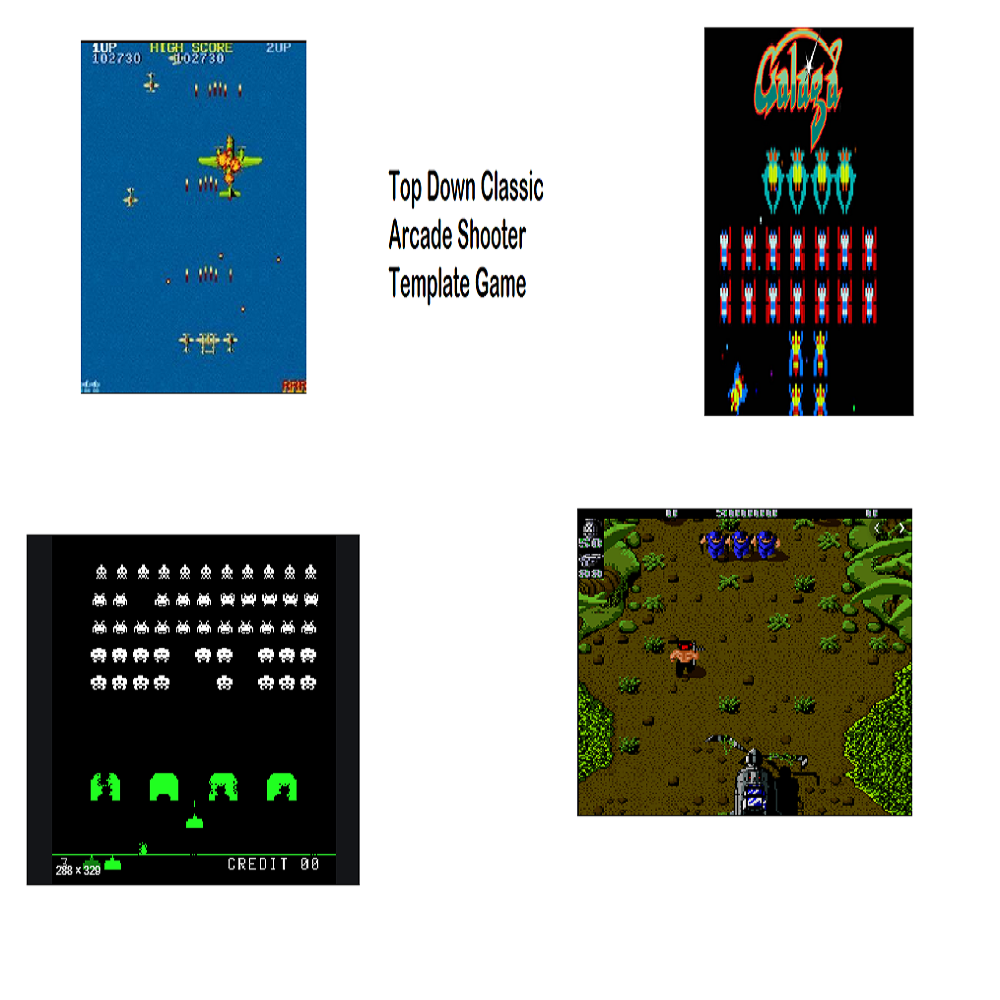
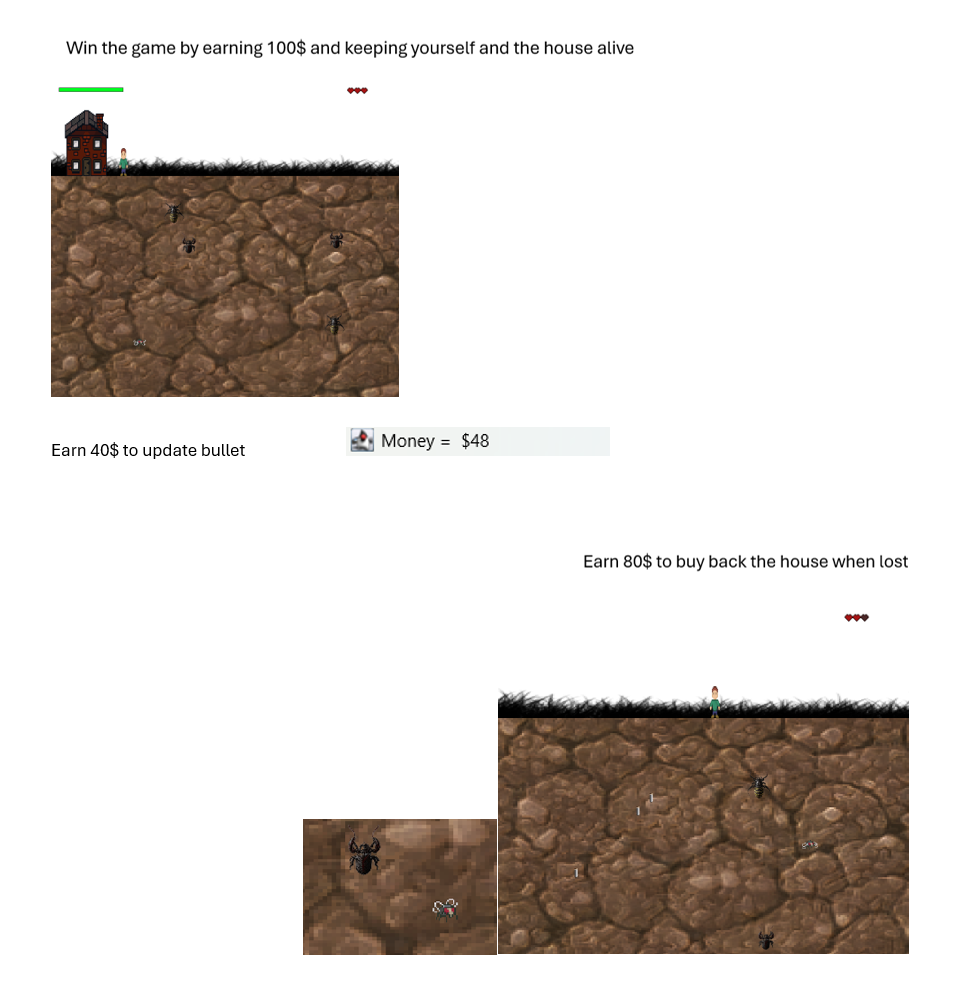
final refinements

diff --git a/src/MainWindow.java b/src/MainWindow.java
@@ -15,6 +15,7 @@ import javax.swing.JButton;
 import javax.swing.JFrame;
 import javax.swing.JLabel;
 import javax.swing.JPanel;
+import javax.swing.Timer;
 
 import util.UnitTests;
 
@@ -51,9 +52,10 @@ public class MainWindow {
 	 private static Viewer canvas = new  Viewer(gameworld);
 	 private static Controller controllerK = Controller.getInstance(); 
 	 private static MouseListener controllerM = Mouse.getInstance();
-	 private static int TargetFPS = 100;
+	 private static int TargetFPS = 80;
 	 private static boolean startGame= false; 
 	 private JLabel BackgroundImageForStartMenu;
+	 private static Timer framerate;
 	  
 	public MainWindow() {
 			frame.setSize(1000, 1000);  // you can customise this later and adapt it to change on size.  
@@ -96,8 +98,10 @@ public class MainWindow {
 	    frame.setVisible(true);   
 	}
 
+
 	public static void main(String[] args) {
 		MainWindow hello = new MainWindow();  //sets up environment 
+
 		while(true){  //not nice but remember we do just want to keep looping till the end.  // this could be replaced by a thread but again we want to keep things simple 
 		//swing has timer class to help us time this but I'm writing my own, you can of course use the timer, but I want to set FPS and display it 
 			
@@ -151,28 +155,18 @@ public class MainWindow {
 		}
 
 		if(gameworld.getShowHousePopUp()){
-			PopUp popup = new PopUp(frame, "Do you want buy back your house?", "[alt + y] Yes", "[alt + n] No");
+			PopUp popup = new PopUp(frame, "Buy back your house.", "[alt + y] Yes");
 			popup.setVisible(true); 
 			
-			if (popup.isAccepted()) {
-				System.out.println("Pressed Yes");
-				canvas.setVisible(true);
-				canvas.addKeyListener(controllerK);
-				canvas.addMouseListener(controllerM);
-				canvas.requestFocusInWindow();
+			System.out.println("Pressed Yes");
+			canvas.setVisible(true);
+			canvas.addKeyListener(controllerK);
+			canvas.addMouseListener(controllerM);
+			canvas.requestFocusInWindow();
 
-				gameworld.setAcceptedHouse(true);
-				gameworld.setShowHousePopUp(false);
-			} else {
-				System.out.println("Pressed No");
-				canvas.setVisible(true);
-				canvas.addKeyListener(controllerK);
-				canvas.addMouseListener(controllerM);
-				canvas.requestFocusInWindow();
-
-				gameworld.setAcceptedHouse(false);
-				gameworld.setShowHousePopUp(false);
-			}
+			gameworld.setAcceptedHouse(true);
+			gameworld.setShowHousePopUp(false);
+		
 		}
 		
 		// view update 
@@ -180,6 +174,6 @@ public class MainWindow {
 		
 		// Both these calls could be setup as  a thread but we want to simplify the game logic for you.  
 		//score update  
-		 frame.setTitle("Money =  "+ gameworld.getMoney()); 
+		 frame.setTitle("Money =  $"+ gameworld.getMoney()); 
 	}
 }

diff --git a/src/Model.java b/src/Model.java
@@ -111,7 +111,7 @@ public class Model {
 	}
 
 	private void gameLogic() { 
-		
+
 		if(enemiesList.size() < 6){
 			while(enemiesList.size() < 6){
 			enemiesList.add(generateEnemy());
@@ -136,24 +136,23 @@ public class Model {
 			}
 		}
 
-		if(money >= 20 && money % 20 == 0 && showOnceB == false && !getShowBulletPopUp()){
+		if(money >= 40 && showOnceB == false && !getShowBulletPopUp()){
 			setShowOnceB(true);
 			setShowBulletPopUp(true);
-			setMoney(money - 20);
+			setMoney(money - 40);
 		}
 
-		if(money > 80 && money % 20 == 0  && !getShowHousePopUp() && getHouse().getLives() <= 0){
+		if(money >= 80 && !getShowHousePopUp() && house.getLives() <= 0 && !acceptedHouse){
 			// setShowOnceH(true);
 			setShowHousePopUp(true);
 			setMoney(money - 80);
 		}
 
-		//implement logic for when the game is over (human life == 0) -> big bug crawls from bottom screen + "GAME OVER" middle screen
 		if (player.getLives() <= 0){
 			setGameOver(true);
 		}
 
-		if(getMoney() >= 100 && house.getLives() >= 0){
+		if(getMoney() >= 100 && house.getLives() > 0){
 			setGameWon(true);
 		}
 			
@@ -191,9 +190,8 @@ public class Model {
 
 		for (GameObject enemy : enemiesList){  
 			//have 1 in 3 enemies traget the house, the rest target the player
-			//chnage back to 3, 1 is after testign for house collisions
 			
-			if(enemiesList.indexOf(enemy) % 3 == 0 && getHouse().getLives() !=  0){
+			if(enemiesList.indexOf(enemy) % 3 == 0 && getHouse().getLives() >  0){
 
 			float targetLocationX = 45 + 135/2;
 			float targetLocationY = 75 + 185/2;

diff --git a/src/Viewer.java b/src/Viewer.java
@@ -175,7 +175,7 @@ public class Viewer extends JPanel {
 	private void drawEnemies(Graphics g) {
 		gameworld.getEnemies().forEach((enemy) ->{
 			int currentPositionInAnimation1= ((int) (CurrentAnimationTime / 10 %3)*32); 
-			int currentPositionInAnimation2= ((int) (CurrentAnimationTime / 5 %1)*32); 
+			int currentPositionInAnimation2= ((int) (CurrentAnimationTime / 5 %1)*20); 
 			int x = (int)enemy.getCentre().getX();
 			int y = (int)enemy.getCentre().getY();
 			int width = enemy.getWidth();
@@ -184,7 +184,7 @@ public class Viewer extends JPanel {
 			switch (enemy.getName()) {
 				case "spider": {g.drawImage(spiderImg, x, y, x+width, y+height, currentPositionInAnimation1, 0, currentPositionInAnimation1+31, 32, null); break;}
 				case "fly": {g.drawImage(flyImg, x, y, x+width, y+height, currentPositionInAnimation1, 0, currentPositionInAnimation1+31, 32, null); break;}
-				case "ant": {g.drawImage(antImg, x, y, x+width, y+height,0,  currentPositionInAnimation2, 32, currentPositionInAnimation2+32, null); break;}
+				case "ant": {g.drawImage(antImg, x, y, x+width, y+height,0,  currentPositionInAnimation2, 32, currentPositionInAnimation2+2077, null); break;}
 				case "ugly1": {g.drawImage(uglyBug1Img, x, y, x+width, y+height, 0, 0, 170, 200, null); break;}
 				case "ugly2":{ g.drawImage(uglyBug2Img, x, y, x+width, y+height, 0, 200, 170, 400, null); break;}
 				default: break;

diff --git a/src/PopUp.java b/src/PopUp.java
@@ -48,6 +48,34 @@ public class PopUp extends JDialog {
         add(buttonPanel, BorderLayout.SOUTH);
     }
 
+     public PopUp(JFrame parent, String text, String firstBtnText) {
+        super(parent, "Please choose", true); //true -> modal dialog = blocks game until player chooses, will stop ANY game logic until player chooses!!!!
+
+        setSize(400, 250);
+        setLocationRelativeTo(parent); //center bsed on parent
+        setLayout(new BorderLayout());
+        setDefaultCloseOperation(JDialog.DISPOSE_ON_CLOSE);
+
+        JLabel label = new JLabel(text, SwingConstants.CENTER);
+        add(label, BorderLayout.CENTER);
+        JButton yesBtn = new JButton(firstBtnText);
+
+        yesBtn.setMnemonic('y');
+
+        yesBtn.addActionListener(new ActionListener() {
+            @Override
+            public void actionPerformed(ActionEvent e) {
+              accepted = true;
+              dispose(); //closes pop up
+            }
+        });
+        JPanel buttonPanel = new JPanel(new FlowLayout());
+        buttonPanel.add(yesBtn);
+
+        add(buttonPanel, BorderLayout.SOUTH);
+    }
+
+
     public boolean isAccepted() {
         return accepted;
     }
